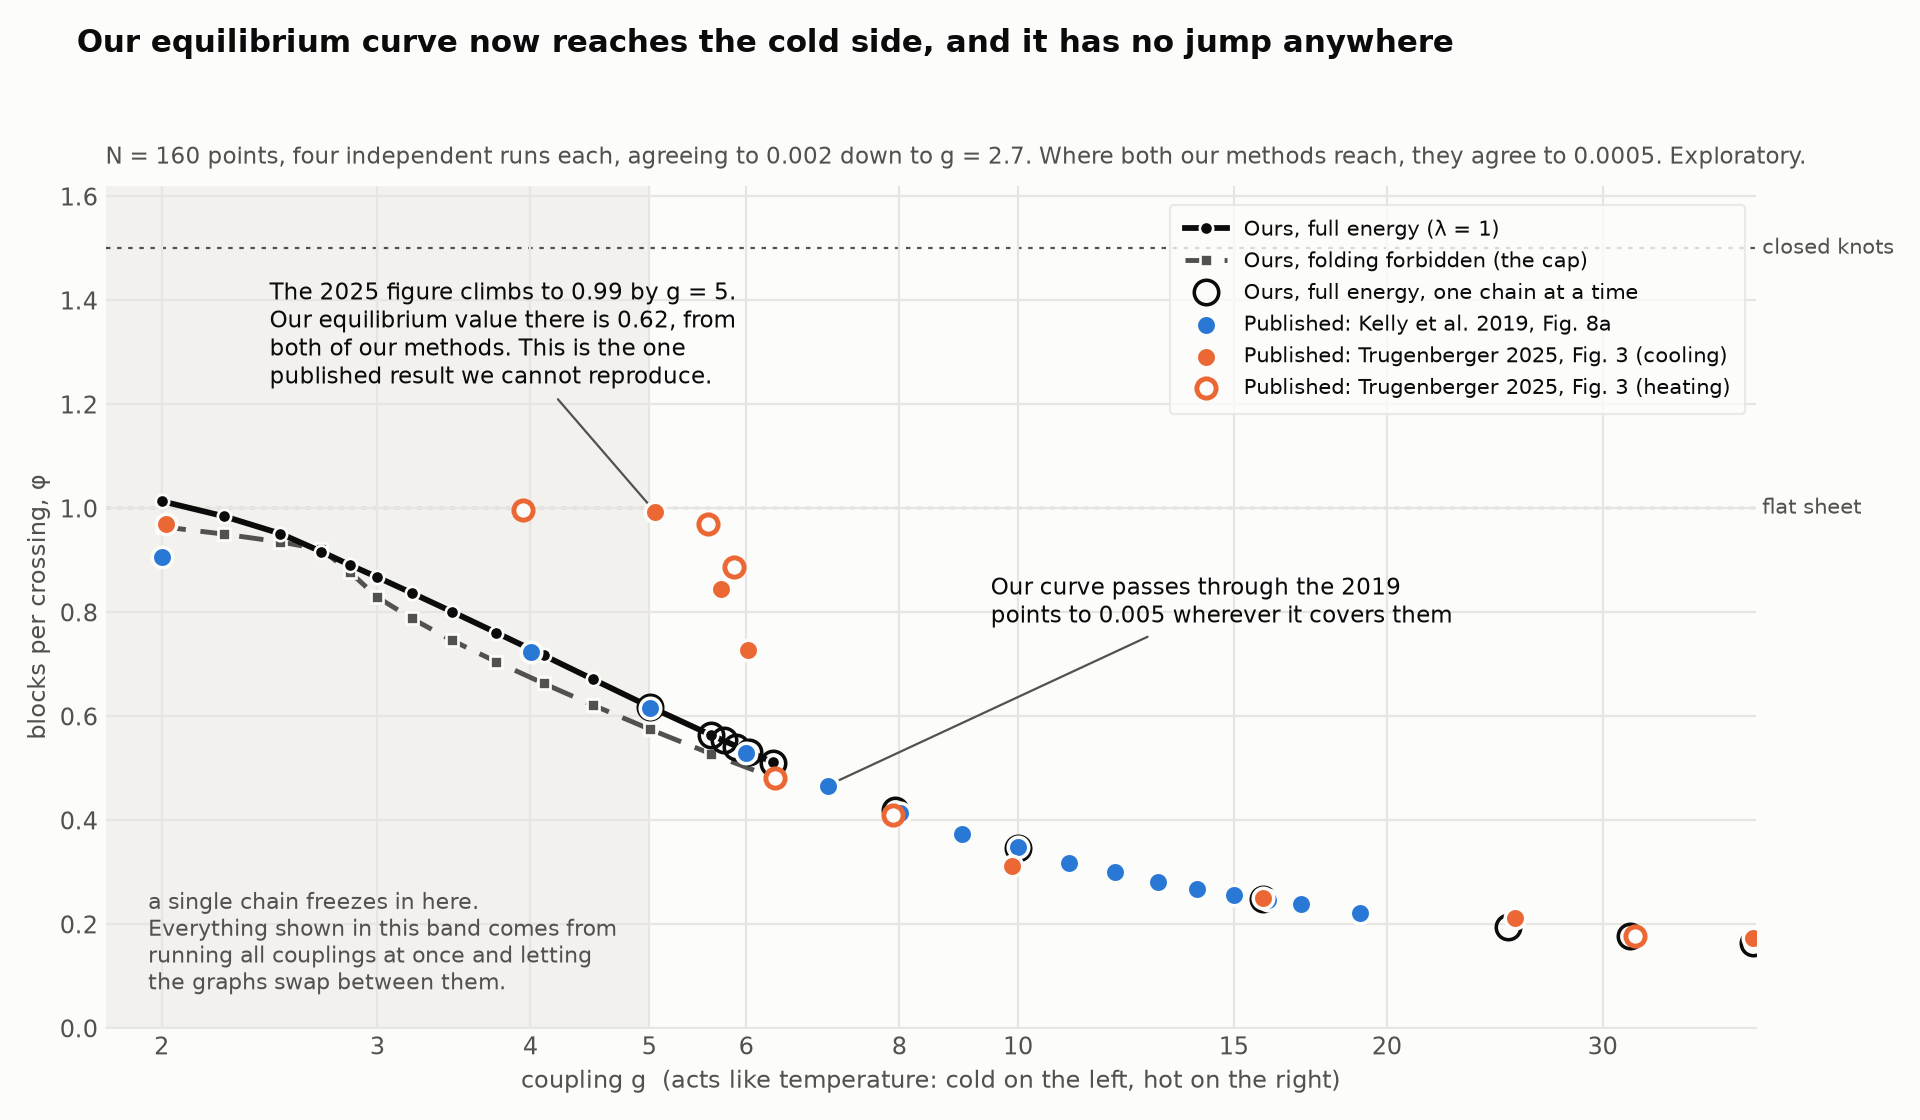
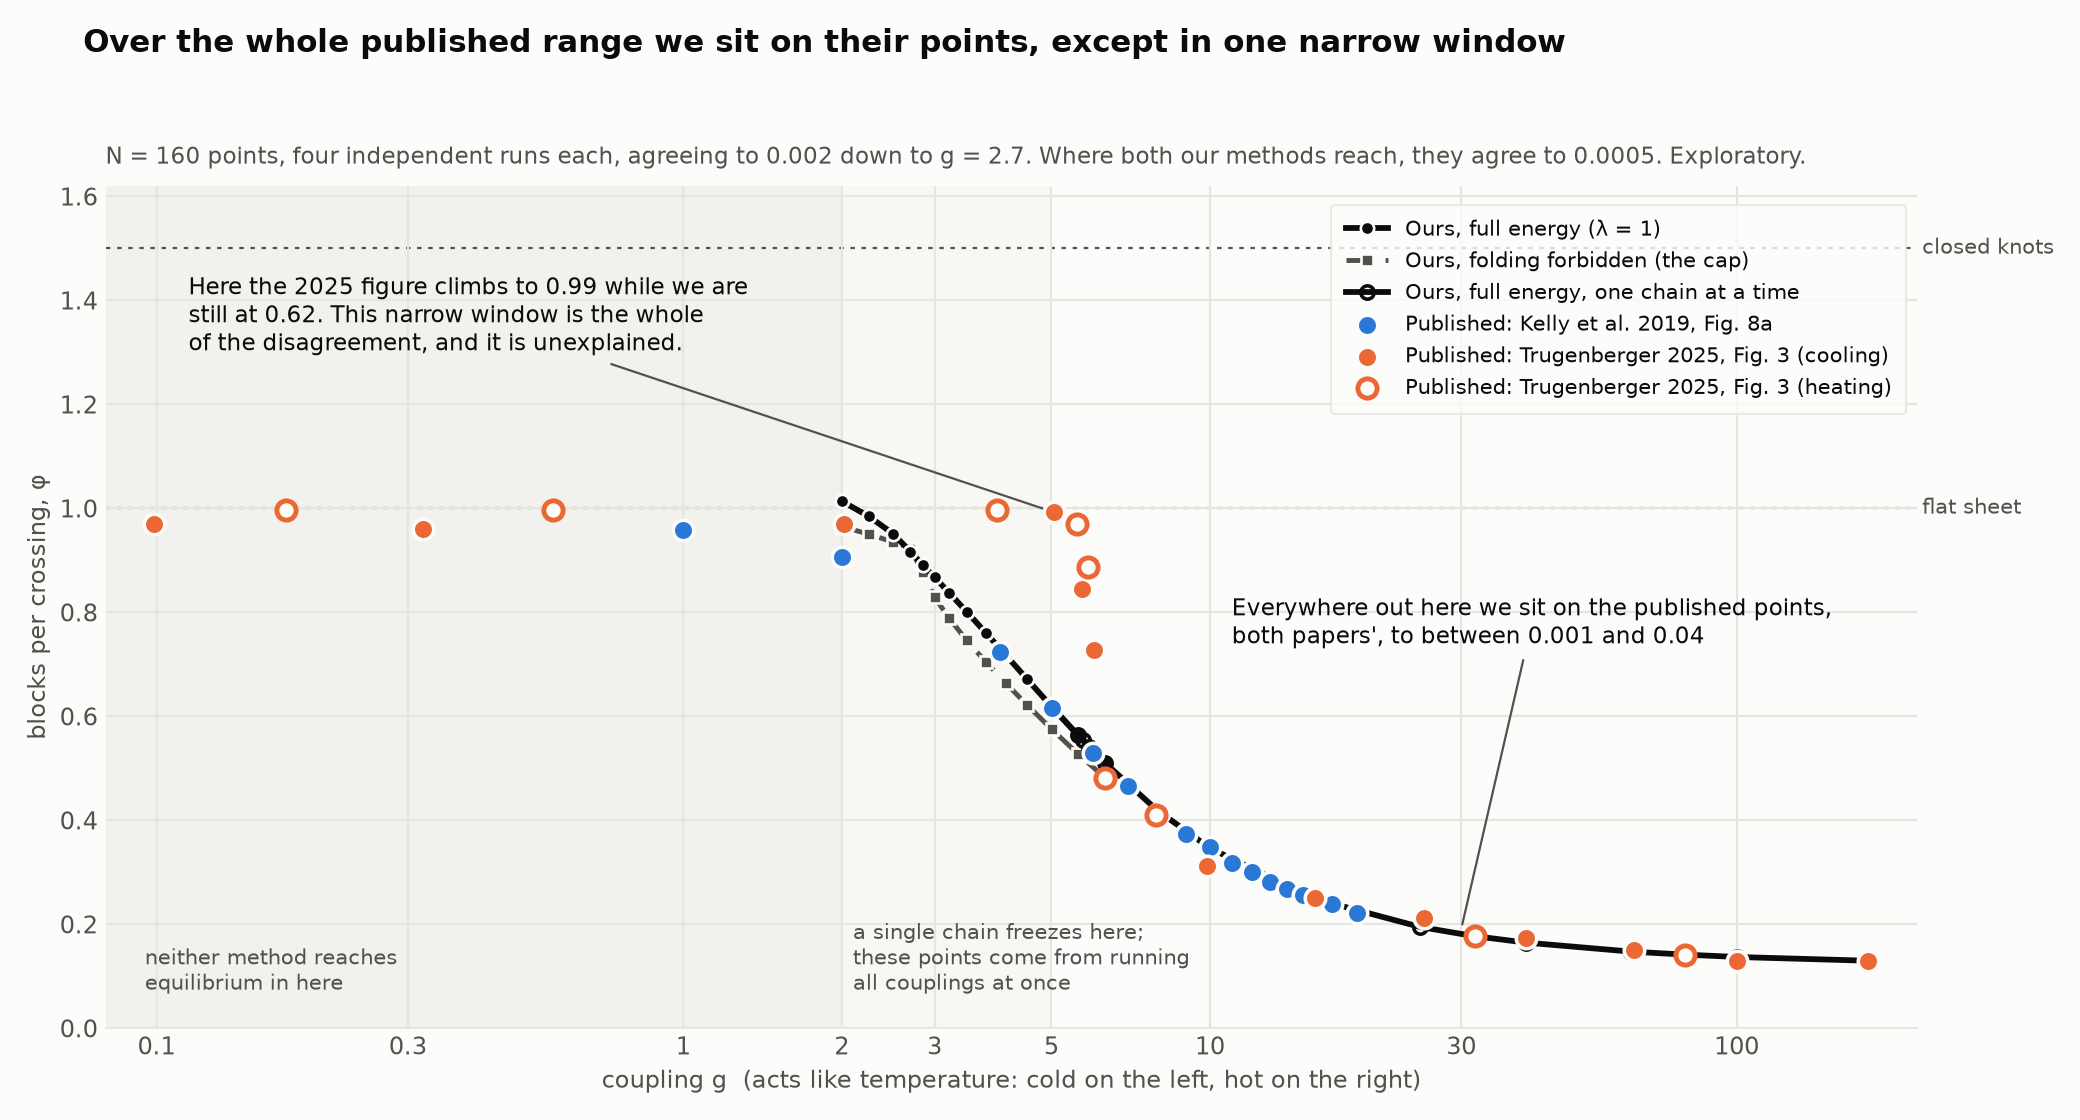
fix(figure): show the whole published range, not just the window where we disagree
The owner pointed out that the equilibrium figure ran from g = 2 to 30, which
crops eight of the twenty-two published points from the 2025 figure: four on
the cold plateau and four on the hot tail, both places where we AGREE with it.
Cropping to the window where we differ makes the disagreement look like the
whole story, which it is not.

The x axis now runs 0.08 to 220, the full published range. Two bands are
marked for honesty: below g = 2, where neither of our methods reaches
equilibrium and only their points are shown, and g = 2 to 5, where a single
chain freezes and our points come from tempering. What the figure now shows
is a long stretch of agreement with one narrow window of disagreement in it.

diff --git a/scripts/plot_equilibrium_curves.py b/scripts/plot_equilibrium_curves.py
@@ -48,17 +48,20 @@ def published(path, prefix):
 
 
 plt.rcParams.update({"font.family": "DejaVu Sans", "font.size": 11})
-fig, ax = plt.subplots(figsize=(12.0, 7.0), dpi=160, facecolor=SURFACE)
+fig, ax = plt.subplots(figsize=(13.0, 7.0), dpi=160, facecolor=SURFACE)
 ax.set_facecolor(SURFACE)
 
-# the region where a single chain freezes, so that the reader knows why tempering was needed
-ax.axvspan(1.8, 5.0, color="#f2f1ed", zorder=0, lw=0)
-ax.text(1.95, 0.06, "a single chain freezes in here.\nEverything shown in this band comes from\nrunning all couplings at once and letting\nthe graphs swap between them.",
-        color=INK2, fontsize=10, va="bottom", ha="left")
+# the two regions we cannot speak for, marked so the reader sees the whole published range
+ax.axvspan(0.08, 2.0, color="#f2f1ed", zorder=0, lw=0)
+ax.text(0.095, 0.06, "neither method reaches\nequilibrium in here",
+        color=INK2, fontsize=9.5, va="bottom", ha="left")
+ax.axvspan(2.0, 5.0, color="#f8f7f3", zorder=0, lw=0)
+ax.text(2.1, 0.06, "a single chain freezes here;\nthese points come from running\nall couplings at once",
+        color=INK2, fontsize=9.5, va="bottom", ha="left")
 
 for level, label in ((1.0, "flat sheet"), (1.5, "closed knots")):
-    ax.plot([1.8, 40], [level, level], color=INK2, lw=1, ls=(0, (2, 3)), zorder=1)
-    ax.text(40.5, level, label, ha="left", va="center", fontsize=9.5, color=INK2)
+    ax.plot([0.08, 220], [level, level], color=INK2, lw=1, ls=(0, (2, 3)), zorder=1)
+    ax.text(225, level, label, ha="left", va="center", fontsize=9.5, color=INK2)
 
 gs, phi = tempered("cqg_n160_lam1_nocap_tempering")
 ax.plot(gs, phi, color=INK, lw=2.6, marker="o", ms=6, mec=SURFACE, mew=1.2, zorder=5,
@@ -67,7 +70,7 @@ gs2, phi2 = tempered("cqg_n160_capped_tempering")
 ax.plot(gs2, phi2, color=INK2, lw=2.2, ls=(0, (5, 3)), marker="s", ms=5, mec=SURFACE, mew=1.2, zorder=4,
         label="Ours, folding forbidden (the cap)")
 gs3, phi3 = plain("cqg_n160_lam1_nocap_vs_t25fig3", 5.0)
-ax.plot(gs3, phi3, color=INK, lw=0, marker="o", ms=11, mfc="none", mew=1.6, zorder=6,
+ax.plot(gs3, phi3, color=INK, lw=2.6, marker="o", ms=6, mfc="none", mew=1.6, zorder=6,
         label="Ours, full energy, one chain at a time")
 
 x8, y8 = published("KTB19_fig8a_N160_digitised.csv", "cool")
@@ -80,18 +83,18 @@ x3h, y3h = published("T25_fig3_digitised.csv", "heat")
 ax.scatter(x3h, y3h, s=75, facecolors=SURFACE, edgecolors=ORANGE, linewidths=2.2, zorder=7,
            label="Published: Trugenberger 2025, Fig. 3 (heating)")
 
-ax.annotate("The 2025 figure climbs to 0.99 by g = 5.\nOur equilibrium value there is 0.62, from\nboth of our methods. This is the one\npublished result we cannot reproduce.",
-            xy=(5.06, 0.992), xytext=(2.45, 1.44), color=INK, fontsize=10.5, va="top",
+ax.annotate("Here the 2025 figure climbs to 0.99 while we are\nstill at 0.62. This narrow window is the whole\nof the disagreement, and it is unexplained.",
+            xy=(5.06, 0.992), xytext=(0.115, 1.45), color=INK, fontsize=10.5, va="top",
             arrowprops=dict(arrowstyle="-", color=INK2, lw=1))
-ax.annotate("Our curve passes through the 2019\npoints to 0.005 wherever it covers them",
-            xy=(7.0, 0.467), xytext=(9.5, 0.78), color=INK, fontsize=10.5,
+ax.annotate("Everywhere out here we sit on the published points,\nboth papers', to between 0.001 and 0.04",
+            xy=(30, 0.191), xytext=(11, 0.74), color=INK, fontsize=10.5,
             arrowprops=dict(arrowstyle="-", color=INK2, lw=1))
 
 ax.set_xscale("log")
-ax.set_xlim(1.8, 40)
+ax.set_xlim(0.08, 220)
 ax.set_ylim(0, 1.62)
-ax.set_xticks([2, 3, 4, 5, 6, 8, 10, 15, 20, 30])
-ax.set_xticklabels(["2", "3", "4", "5", "6", "8", "10", "15", "20", "30"])
+ax.set_xticks([0.1, 0.3, 1, 2, 3, 5, 10, 30, 100])
+ax.set_xticklabels(["0.1", "0.3", "1", "2", "3", "5", "10", "30", "100"])
 ax.minorticks_off()
 ax.grid(True, which="major", color=GRID, lw=1)
 ax.tick_params(colors=INK2, length=0)
@@ -100,7 +103,7 @@ for side in ("top", "right", "left"):
 ax.spines["bottom"].set_color(GRID)
 ax.set_xlabel("coupling g  (acts like temperature: cold on the left, hot on the right)", color=INK2)
 ax.set_ylabel("blocks per crossing, φ", color=INK2)
-fig.suptitle("Our equilibrium curve now reaches the cold side, and it has no jump anywhere",
+fig.suptitle("Over the whole published range we sit on their points, except in one narrow window",
              x=0.04, y=0.975, ha="left", fontsize=14, color=INK, fontweight="bold")
 ax.set_title("N = 160 points, four independent runs each, agreeing to 0.002 down to g = 2.7. Where both our "
              "methods reach, they agree to 0.0005. Exploratory.",
